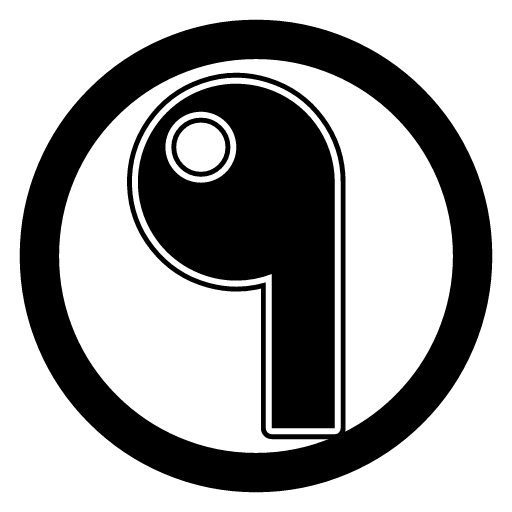
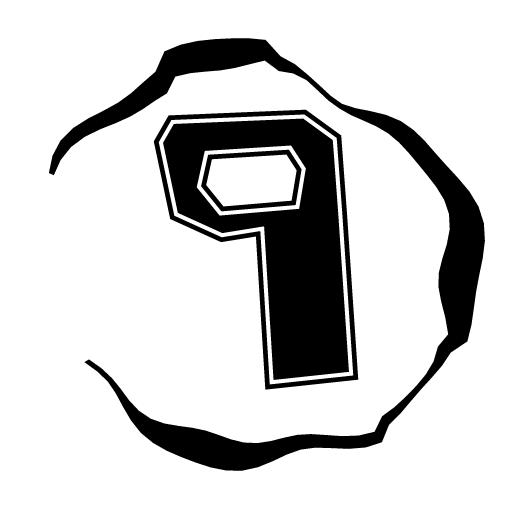
Redraw the Les9 mark as an angular jersey 9.
LES and ENGAGÉS share one letter size. The circle is an open, uneven brush stroke, and the digit is a thick block number.

Changed region(s): [[0.0312, 0.0312, 0.9688, 0.9688]]

diff --git a/docs/architecture.md b/docs/architecture.md
@@ -71,7 +71,7 @@ Le CORS n'est pas ouvert.
 
 ## Écarts qui restent
 
-- Le logo est un dessin noir et blanc propre à Les9 : le mot LES au-dessus d'un 9 de maillot, dans un cercle épais. Les PNG mobiles en sont dérivés. L'identité reste à confirmer.
+- Le logo est noir et blanc : LES ENGAGÉS (lettres de même taille) au-dessus d'un 9 anguleux de maillot, dans un cercle ouvert au trait irrégulier. Les PNG mobiles reprennent le symbole. L'identité, dont le mot ENGAGÉS, reste à confirmer.
 - gazetlocal est un dépôt privé. Les9 est public : la même absence de secret, avec cette contrainte en plus.
 - Pas de licence, comme le squelette de référence.
 - Pas d'identifiant de paquet iOS ou Android. Le squelette de référence n'en fixe pas non plus. Aucune signature.
